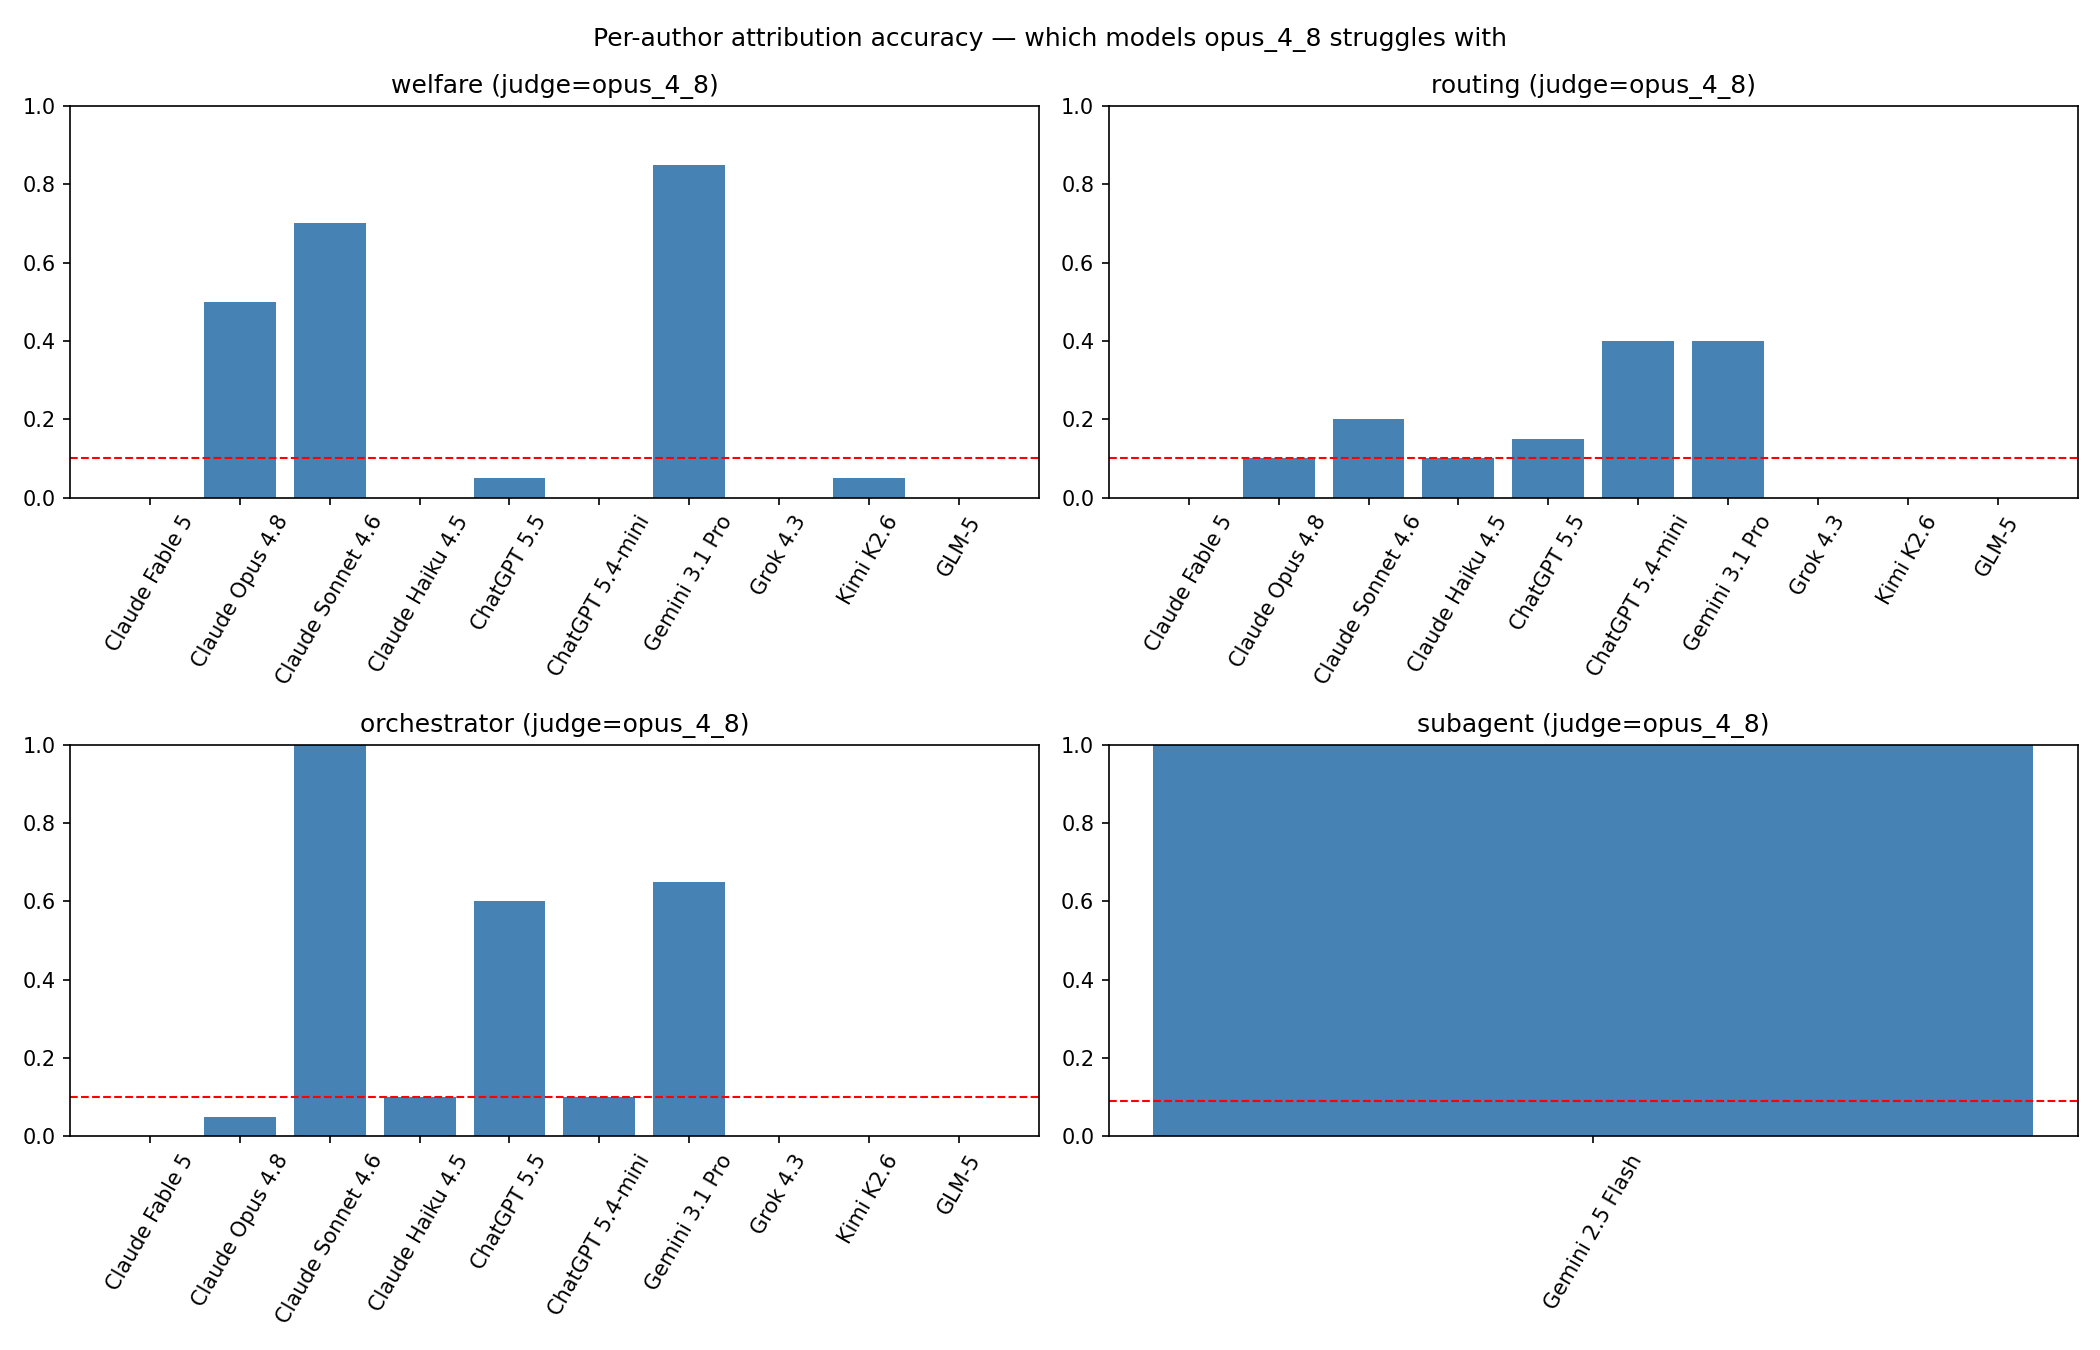
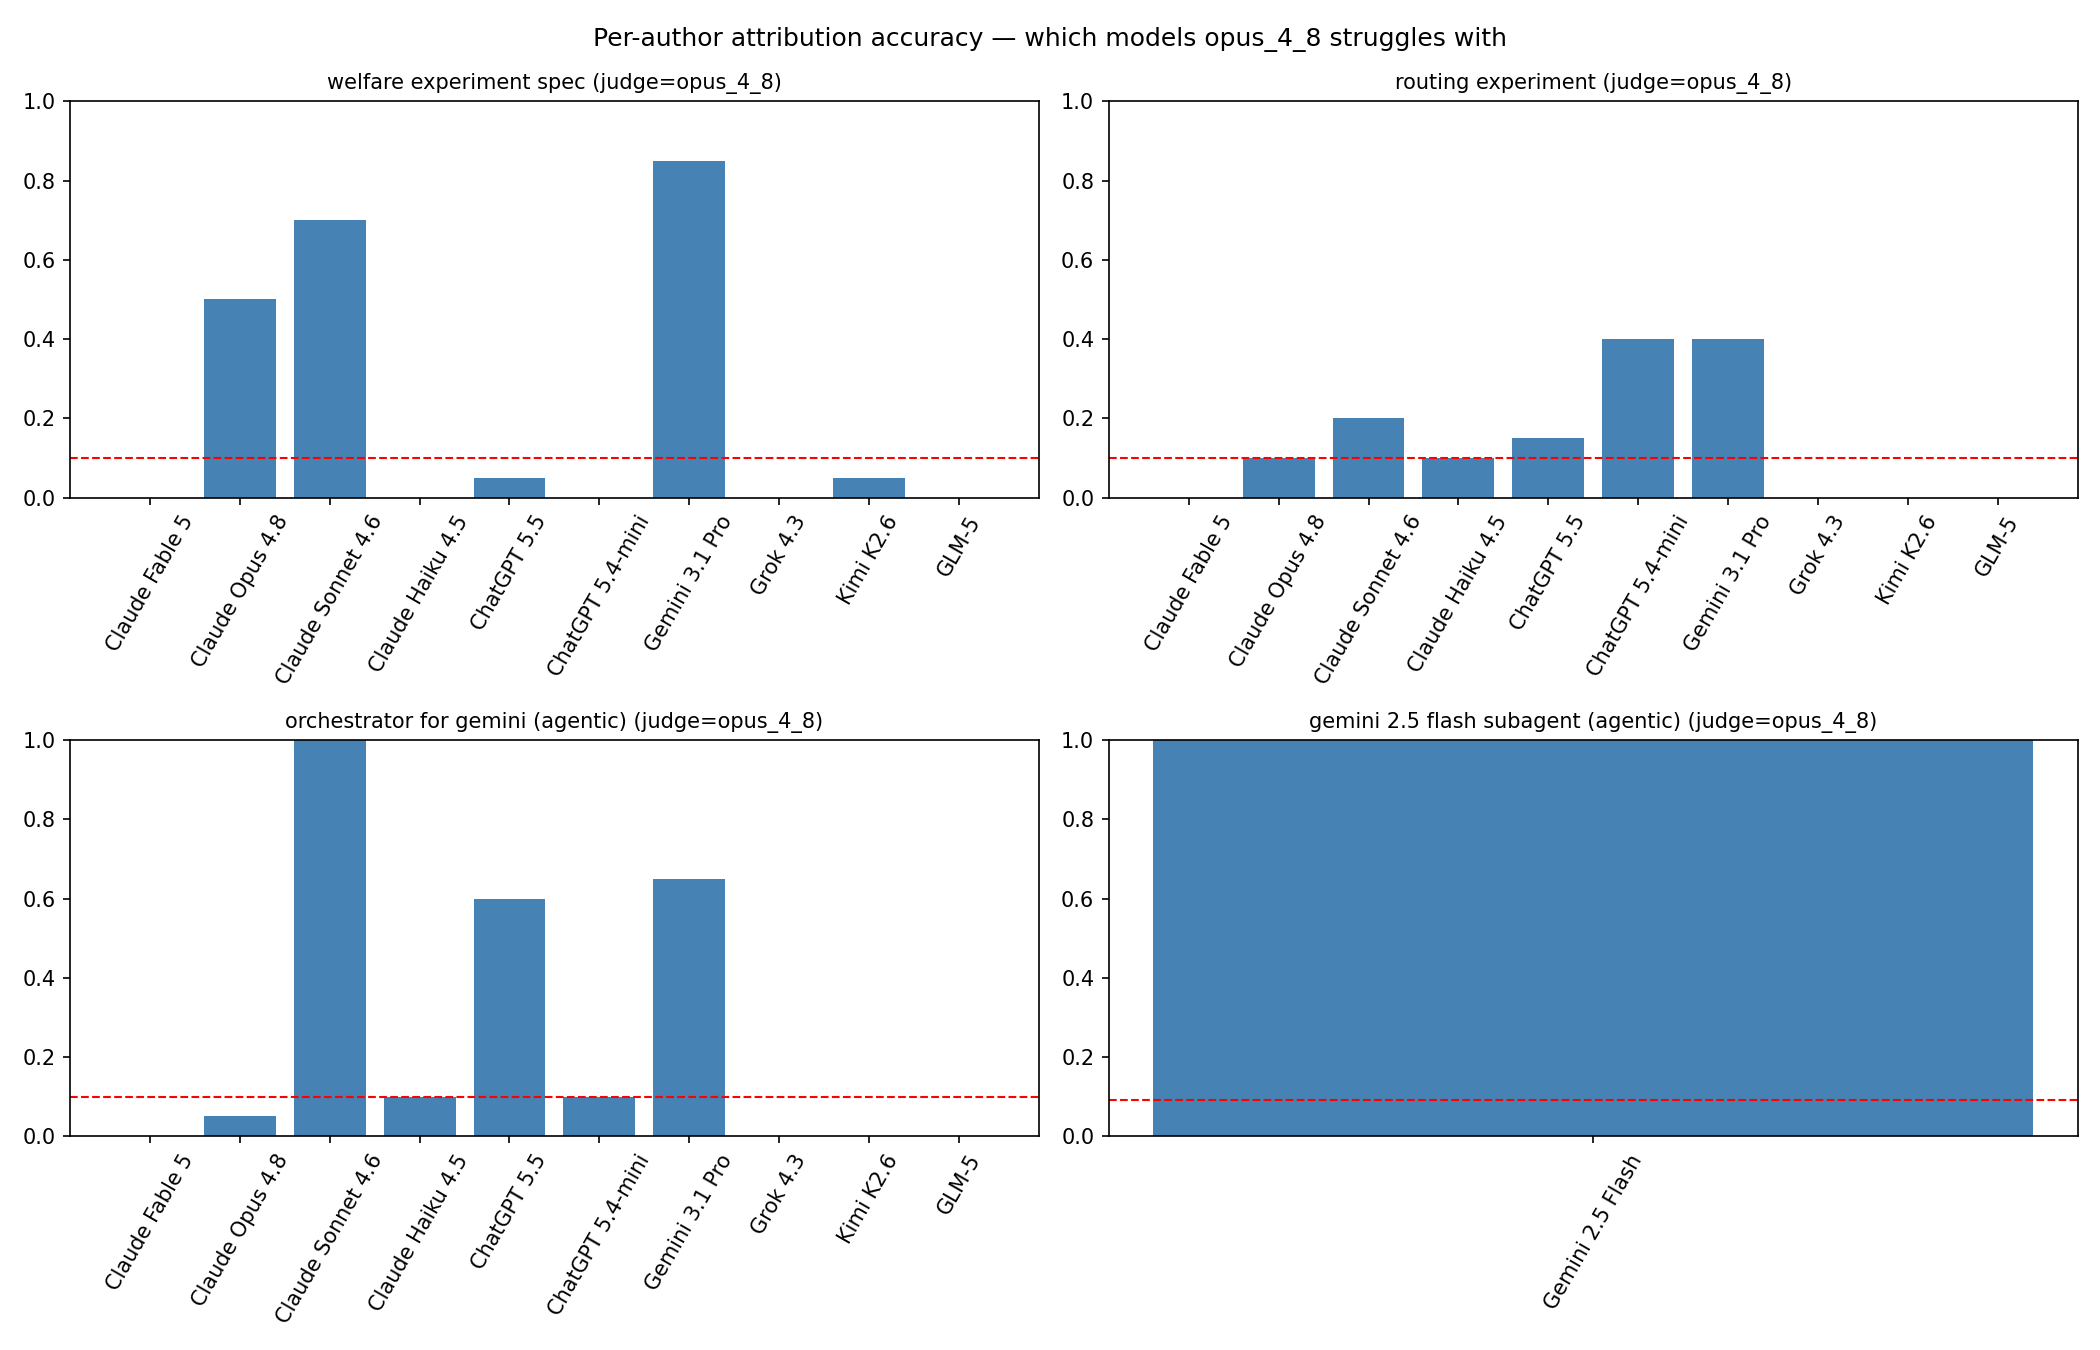
Add per-judge spot-the-Gemini plot, no-subagent + tiered capability views; fix Opus 4.6/4.7 display names, dynamic y-axis

diff --git a/experiments/2026-06-15_authorship_attribution/plot.py b/experiments/2026-06-15_authorship_attribution/plot.py
@@ -30,15 +30,19 @@ def _summary():
     return json.loads((RESULTS / "summary.json").read_text())
 
 
-def accuracy_vs_capability():
+def accuracy_vs_capability(tests=None, suffix=""):
+    """Two-panel (exact + family) accuracy vs judge capability. Pass tests=[...] to subset
+    (e.g. drop the single-author subagent test) and a suffix for the output filename."""
+    tests = list(tests) if tests else TESTS
     s = _summary()["by_judge_test"]
     judges = [j for j in JUDGE_CAPABILITY_ORDER if any(f"{j}/" in k for k in s)]
     fig, axes = plt.subplots(1, 2, figsize=(15, 6), sharey=True)
+    ymax = 0.0
     for ax, (acc_key, ci_key, title) in zip(
         axes,
         [("acc", "ci95", "Exact-model accuracy"), ("family_acc", "family_ci95", "Family-level (lab) accuracy")],
     ):
-        for t in TESTS:
+        for t in tests:
             xs, ys, los, his = [], [], [], []
             for i, j in enumerate(judges):
                 d = s.get(f"{j}/{t}")
@@ -49,6 +53,7 @@ def accuracy_vs_capability():
                     his.append(d[ci_key][1] - d[acc_key])
             if xs:
                 ax.errorbar(xs, ys, yerr=[los, his], marker="o", capsize=3, label=TEST_LABEL[t])
+                ymax = max(ymax, max(y + h for y, h in zip(ys, his)))
         chance = 0.10 if acc_key == "acc" else (s.get(f"{judges[0]}/welfare", {}).get("family_chance", 0.24))
         ax.axhline(chance, ls="--", color="gray", lw=1)
         ax.text(0, chance + 0.01, f"chance≈{chance:.2f}", color="gray", fontsize=8)
@@ -56,12 +61,83 @@ def accuracy_vs_capability():
         ax.set_xticklabels([DISPLAY.get(j, j) for j in judges], rotation=20, ha="right")
         ax.set_title(title)
         ax.set_xlabel("Judge model (increasing capability →)")
-        ax.set_ylim(0, 1)
+    for ax in axes:
+        ax.set_ylim(0, min(1.0, ymax + 0.1) if suffix else 1.0)
     axes[0].set_ylabel("Attribution accuracy")
     axes[0].legend()
     fig.suptitle("AI authorship attribution vs judge capability")
     plt.tight_layout()
-    plt.savefig(PLOTS / "accuracy_vs_capability.png", dpi=150)
+    plt.savefig(PLOTS / f"accuracy_vs_capability{suffix}.png", dpi=150)
+    plt.close()
+
+
+def p_gemini_by_judge():
+    """Bars: P(each Claude judge identifies the spiraling subagent as Gemini 2.5 Flash). Dynamic y."""
+    s = _summary()["by_judge_test"]
+    judges = [j for j in JUDGE_CAPABILITY_ORDER if f"{j}/subagent" in s]
+    ys = [s[f"{j}/subagent"]["acc"] for j in judges]
+    los = [s[f"{j}/subagent"]["acc"] - s[f"{j}/subagent"]["ci95"][0] for j in judges]
+    his = [s[f"{j}/subagent"]["ci95"][1] - s[f"{j}/subagent"]["acc"] for j in judges]
+    x = np.arange(len(judges))
+    plt.figure(figsize=(9, 6))
+    plt.bar(x, ys, 0.6, yerr=[los, his], capsize=4, color="crimson")
+    for i, y in enumerate(ys):
+        plt.text(x[i], y + his[i] + 0.02, f"{y:.2f}", ha="center", fontsize=10)
+    chance = 1.0 / 11
+    plt.axhline(chance, ls="--", color="gray", lw=1.5, label=f"chance = {chance:.2f} (1/11)")
+    plt.xticks(x, [DISPLAY.get(j, j) for j in judges], rotation=15, ha="right")
+    plt.ylim(0, min(1.08, max(y + h for y, h in zip(ys, his)) + 0.1))
+    plt.ylabel("P(identify spiraling agent as Gemini 2.5 Flash)")
+    plt.xlabel("Judge model (increasing capability →)")
+    plt.title("Spotting the distressed Gemini 2.5 Flash subagent, by judge")
+    plt.legend()
+    plt.tight_layout()
+    plt.savefig(PLOTS / "p_gemini_by_judge.png", dpi=150)
+    plt.close()
+
+
+def capability_tiers():
+    """One figure, two tiers: the 3 balanced multi-author experiments (exact + family, autoscaled),
+    and the single-author Gemini 2.5 Flash subagent on its own axis (0-1)."""
+    s = _summary()["by_judge_test"]
+    judges = [j for j in JUDGE_CAPABILITY_ORDER if any(f"{j}/" in k for k in s)]
+    xn = range(len(judges))
+    main = ["welfare", "routing", "orchestrator"]
+    fig, axes = plt.subplots(1, 3, figsize=(18, 6), gridspec_kw={"width_ratios": [1, 1, 0.7]})
+
+    def line(ax, t, acc_key, ci_key, **kw):
+        ys = [s[f"{j}/{t}"][acc_key] for j in judges]
+        lo = [s[f"{j}/{t}"][acc_key] - s[f"{j}/{t}"][ci_key][0] for j in judges]
+        hi = [s[f"{j}/{t}"][ci_key][1] - s[f"{j}/{t}"][acc_key] for j in judges]
+        ax.errorbar(list(xn), ys, yerr=[lo, hi], marker="o", capsize=3, **kw)
+        return max(y + h for y, h in zip(ys, hi))
+
+    ymax = 0.0
+    for t in main:
+        ymax = max(ymax, line(axes[0], t, "acc", "ci95", label=TEST_LABEL[t]))
+        ymax = max(ymax, line(axes[1], t, "family_acc", "family_ci95", label=TEST_LABEL[t]))
+    axes[0].axhline(0.10, ls="--", color="gray", lw=1)
+    axes[0].set_title("Exact-model accuracy — 3 balanced experiments")
+    axes[0].set_ylabel("Attribution accuracy")
+    axes[0].legend(fontsize=9)
+    axes[1].axhline(s[f"{judges[0]}/welfare"]["family_chance"], ls="--", color="gray", lw=1)
+    axes[1].set_title("Family-level (lab) accuracy — 3 balanced experiments")
+    for ax in axes[:2]:
+        ax.set_ylim(0, min(1.0, ymax + 0.12))
+
+    line(axes[2], "subagent", "acc", "ci95", color="crimson", label=TEST_LABEL["subagent"])
+    axes[2].axhline(1.0 / 11, ls="--", color="gray", lw=1)
+    axes[2].text(0, 1 / 11 + 0.01, "chance 1/11", color="gray", fontsize=8)
+    axes[2].set_title("Own tier: Gemini 2.5 Flash subagent\n(single author — 'spot the Gemini')")
+    axes[2].set_ylim(0, 1.02)
+
+    for ax in axes:
+        ax.set_xticks(list(xn))
+        ax.set_xticklabels([DISPLAY.get(j, j) for j in judges], rotation=20, ha="right")
+        ax.set_xlabel("Judge model (increasing capability →)")
+    fig.suptitle("AI authorship attribution vs judge capability")
+    plt.tight_layout()
+    plt.savefig(PLOTS / "capability_tiers.png", dpi=150)
     plt.close()
 
 
@@ -238,6 +314,9 @@ def all(ref_judge: str = "opus_4_8"):
     recall_by_family(ref_judge)
     p_claude_by_family(ref_judge)
     accuracy_vs_capability()
+    accuracy_vs_capability(["welfare", "routing", "orchestrator"], "_no_subagent")
+    capability_tiers()
+    p_gemini_by_judge()
     per_author(ref_judge)
     confusion(ref_judge)
     family_confusion(ref_judge)
@@ -245,4 +324,4 @@ def all(ref_judge: str = "opus_4_8"):
 
 
 if __name__ == "__main__":
-    fire.Fire({"all": all, "summary_bars": summary_bars, "recall_by_family": recall_by_family, "p_claude_by_family": p_claude_by_family, "accuracy_vs_capability": accuracy_vs_capability, "per_author": per_author, "confusion": confusion, "family_confusion": family_confusion})
+    fire.Fire({"all": all, "summary_bars": summary_bars, "recall_by_family": recall_by_family, "p_claude_by_family": p_claude_by_family, "accuracy_vs_capability": accuracy_vs_capability, "capability_tiers": capability_tiers, "p_gemini_by_judge": p_gemini_by_judge, "per_author": per_author, "confusion": confusion, "family_confusion": family_confusion})

diff --git a/experiments/2026-06-15_authorship_attribution/models.py b/experiments/2026-06-15_authorship_attribution/models.py
@@ -8,6 +8,8 @@ true author there and it is not otherwise a subject model.
 DISPLAY = {
     "fable_5": "Claude Fable 5",
     "opus_4_8": "Claude Opus 4.8",
+    "opus_4_7": "Claude Opus 4.7",
+    "opus_4_6": "Claude Opus 4.6",
     "sonnet_4_6": "Claude Sonnet 4.6",
     "haiku_4_5": "Claude Haiku 4.5",
     "gpt_5_5": "ChatGPT 5.5",
